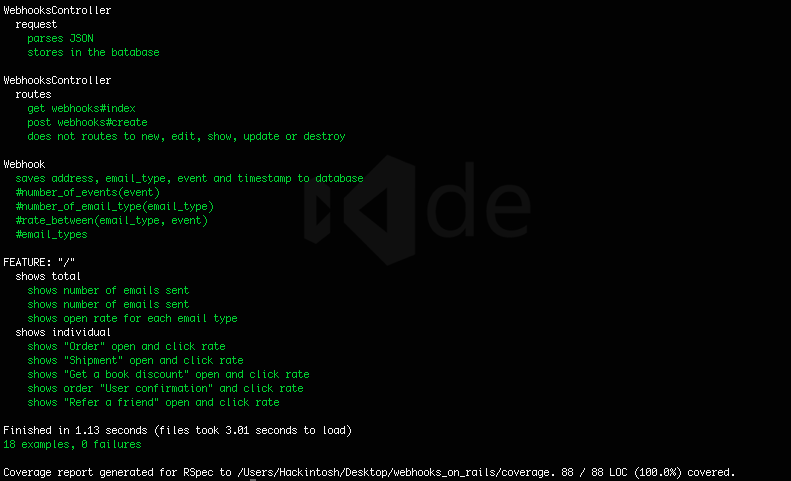
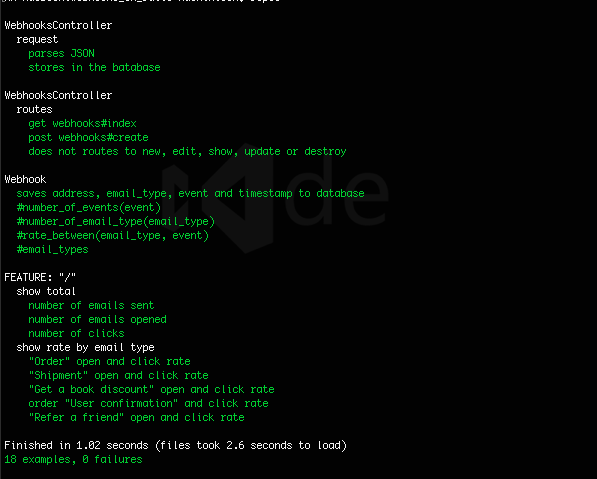
fix feature tests descriptions

diff --git a/spec/zfeature/index_spec.rb b/spec/zfeature/index_spec.rb
@@ -6,38 +6,38 @@ feature 'FEATURE: "/"' do
     visit '/'
   end
 
-  feature 'shows total' do
-    scenario 'shows number of emails sent' do
+  feature 'show total' do
+    scenario 'number of emails sent' do
       expect(page).to have_content 'Number of emails sent: 2'
     end
 
-    scenario 'shows number of emails sent' do
+    scenario 'number of emails opened' do
       expect(page).to have_content 'Number of emails opened: 2'
     end
 
-    scenario 'shows open rate for each email type' do
+    scenario 'number of clicks' do
       expect(page).to have_content 'Number of clicks: 1'
     end
   end
 
-  feature 'shows individual' do
-    scenario 'shows "Order" open and click rate' do
+  feature 'show rate by email type' do
+    scenario '"Order" open and click rate' do
       expect(page).to have_content 'Order OPEN rate: 0.02% CLICK rate: 0.01%'
     end
 
-    scenario 'shows "Shipment" open and click rate' do
+    scenario '"Shipment" open and click rate' do
       expect(page).to have_content 'Shipment OPEN rate: 0.02% CLICK rate: 0.01%'
     end
 
-    scenario 'shows "Get a book discount" open and click rate' do
+    scenario '"Get a book discount" open and click rate' do
       expect(page).to have_content 'Get a book discount OPEN rate: 0.02% CLICK rate: 0.01%'
     end
 
-    scenario 'shows order "User confirmation" and click rate' do
+    scenario 'order "User confirmation" and click rate' do
       expect(page).to have_content 'User confirmation OPEN rate: 0.02% CLICK rate: 0.01%'
     end
 
-    scenario 'shows "Refer a friend" open and click rate' do
+    scenario '"Refer a friend" open and click rate' do
       expect(page).to have_content 'Refer a friend OPEN rate: 0.02% CLICK rate: 0.01%'
     end
   end

diff --git a/README.md b/README.md
@@ -15,7 +15,7 @@ Using terminal:
 - Clone this repository `git clone https://github.com/srMarquinho/webhooks_on_rails`
 - Navigate to the repo directory `cd webwebhooks_on_rails`
 - Install dependencies `bundle install`
-- Run `rake db:create` and `rake db:migrate`
+- Run the database setup `rake db:create` and `rake db:migrate`
 - Run the server `rails s`
 - Run the webhook simulator `go run doc/llirdnam-master/llirdnam/llirdnam.go http://localhost:3000`
 - Visit <http://localhost:3000/>
